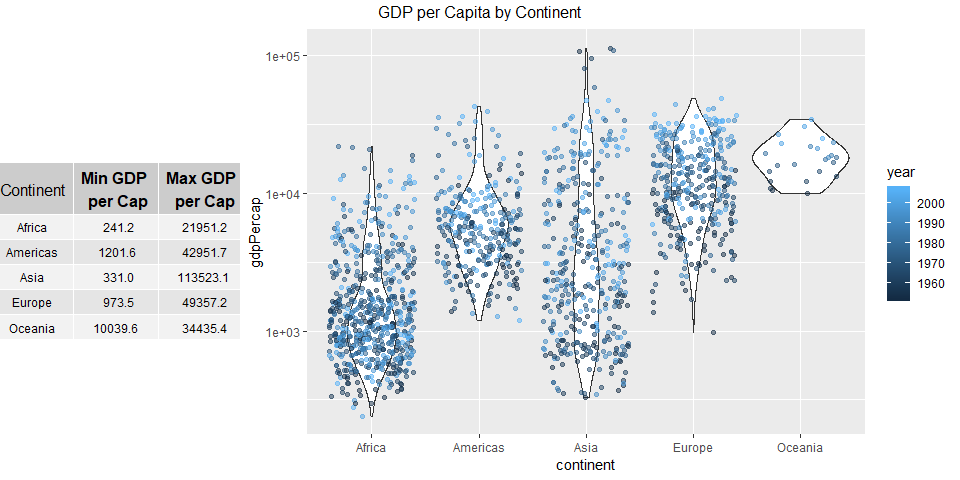
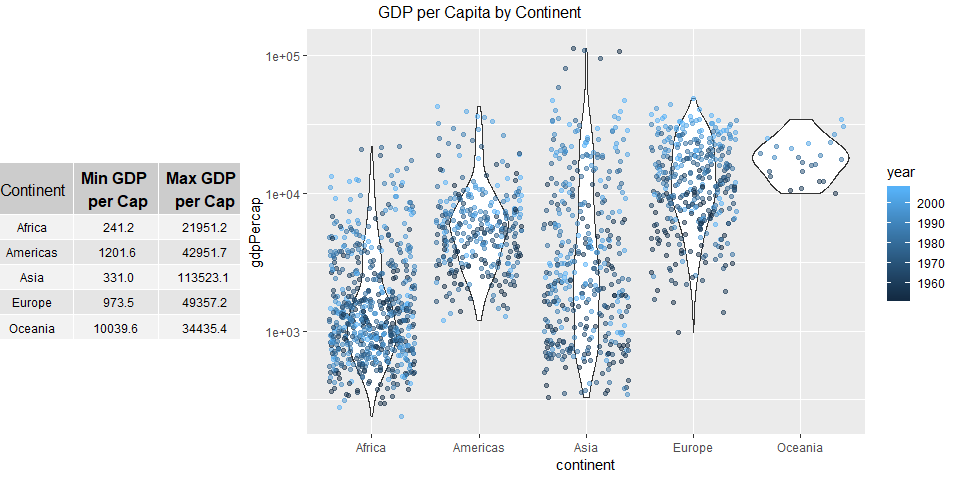
Adding final versions

Changed region(s): [[0.3438, 0.2188, 0.875, 0.8438], [0.5938, 0.0938, 0.6562, 0.125]]

diff --git a/hw03-gapminder-analysis.md b/hw03-gapminder-analysis.md
@@ -78,7 +78,7 @@ minMaxGDPTable <- gapminder %>%
 
 # Set theme to customize sizing of the table
 tt <- ttheme_default(colhead=list(fg_params = list(parse = TRUE)), 
-                     core = list(fg_params=list(cex = 0.75)),
+                     core = list(fg_params=list(cex = 0.75)),         #Adjusting font sizing
                      colhead = list(fg_params=list(cex = 0.25)),
                      rowhead = list(fg_params=list(cex = 0.25)))
 # Converting the data frame/tible into a 'grob' that can be accepted by grid.arrange
@@ -90,7 +90,7 @@ minMaxGDPTableGrob <- tableGrob(minMaxGDPTable[,c(1:3)],
 # Plot chart and table into one object
 grid.arrange(minMaxGDPTableGrob, minMaxGDPPlot,  
              nrow=2, ncol=4,
-             layout_matrix = rbind(c(1, rep(2,3)), c(1, rep(2,3))),
+             layout_matrix = rbind(c(1, rep(2,3)), c(1, rep(2,3))),   #Allowing plots to be unequal sizes
              as.table=TRUE,
              top = "GDP per Capita by Continent")
 ```
@@ -275,7 +275,7 @@ gapminder %>%
   group_by(country, continent) %>% 
   summarize(meanLifeExp = mean(lifeExp)) %>% 
   ggplot(aes(meanLifeExp)) +
-    geom_histogram(aes(fill = continent), binwidth = 2.5) +
+    geom_histogram(aes(fill = continent), binwidth = 2.5) + #Adjusted bin width
     ggtitle("Distribution of Country's Mean Life Expectancy by Continent")
 ```
 
@@ -293,6 +293,7 @@ Weighted Mean Life Expectancy by Continent
 By Continent, comparing 1952 and 2007:
 
 ``` r
+#Calculating weighted mean life expectancy in 1952
 WMLifeExp1952 <- gapminder %>% 
   filter(year == 1952) %>% 
   group_by(continent) %>% 
@@ -300,6 +301,7 @@ WMLifeExp1952 <- gapminder %>%
   summarize(MLifeExp1952 = mean(lifeExp),
             WMLifeExp1952 = sum(weightedLifeExp) / sum(pop))
 
+#Calculating weighted mean life expectancy in 2007
 WMLifeExp2007 <- gapminder %>% 
   filter(year == 2007) %>% 
   group_by(continent) %>% 
@@ -307,6 +309,7 @@ WMLifeExp2007 <- gapminder %>%
   summarize(MLifeExp2007 = mean(lifeExp),
             WMLifeExp2007 = sum(as.numeric(weightedLifeExp)) / sum(as.numeric(pop)))
 
+#Putting the data from 1952 and 2007 back together
 kable(inner_join(WMLifeExp1952, WMLifeExp2007, by = "continent"))
 ```
 
@@ -340,8 +343,8 @@ For this calculation, let's again, just print the results for 1952 and 2007, so 
 gapminder %>% 
   group_by(continent, year) %>% 
   summarize(MLifeExp = mean(lifeExp),
-            TMLifeExp = mean(lifeExp, trim = 0.05)) %>% 
-  summarize(MLifeExp1952 = MLifeExp[year == 1952],
+            TMLifeExp = mean(lifeExp, trim = 0.05)) %>% #Specifying trim x% of the data (top & bottom)
+  summarize(MLifeExp1952 = MLifeExp[year == 1952],      #Pulling the values for 1952
             TMLifeExp1952 = TMLifeExp[year == 1952],
             MLifeExp2007 = MLifeExp[year == 2007],
             TMLifeExp2007 = TMLifeExp[year == 2007]) %>% 
@@ -385,8 +388,8 @@ Countries with Life Expectancies Lower than 65 Years
 gapminder %>% 
   filter(continent != "Oceania") %>% 
   group_by(continent, year) %>% 
-  summarize(nBelow = sum(lifeExp < 65),
-            pBelow = nBelow / n()) %>% 
+  summarize(nBelow = sum(lifeExp < 65),   #Number of countries per continent w lifeExp < 60
+            pBelow = nBelow / n()) %>%    #Percent of countries per continent w lifeExp < 60
   ggplot(aes(x = year, y = pBelow)) +
     facet_wrap( ~ continent, scales = "free_x") + 
     geom_bar(stat = "identity", aes(fill = continent), show.legend = FALSE) +
@@ -500,11 +503,11 @@ gapminder %>%
   group_by(year) %>% 
   mutate(GDP = gdpPercap * pop) %>% 
   summarize(OceaniaGDP = sum(GDP),
-            AusGDP = GDP[country == "Australia"],
-            NZGDP = GDP[country == "New Zealand"],
+            AusGDP = GDP[country == "Australia"],  #Generating the total GDP for Australian rows
+            NZGDP = GDP[country == "New Zealand"], #Generating the total GDP for New Zealand rows
             AusGDPProp = AusGDP / OceaniaGDP,
             NZGDPProp = NZGDP / OceaniaGDP) %>% 
-  gather(key = "Country", value = "GDPProp", AusGDPProp, NZGDPProp) %>% 
+  gather(key = "Country", value = "GDPProp", AusGDPProp, NZGDPProp) %>% #Reshape data for use with geom_bar
   ggplot(aes(x = year, y = GDPProp)) +
     geom_bar(stat = "identity", aes(fill = Country)) +
     ggtitle("Relative Contributions to the GDP of Oceania")
